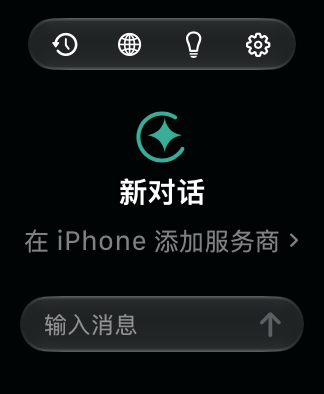
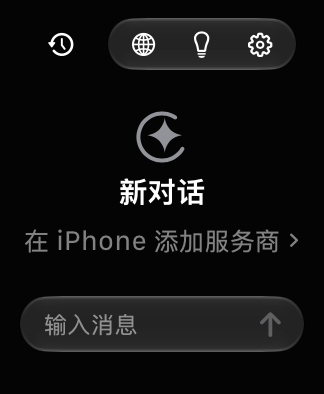
Give watch history its own leading button

diff --git a/Watch/ArcWatchApp.swift b/Watch/ArcWatchApp.swift
@@ -64,15 +64,19 @@ struct WatchChatView: View {
     }
 
     private var actionBar: some View {
-        HStack(spacing: 0) {
+        HStack(spacing: 6) {
             barButton("历史对话", symbol: "clock.arrow.circlepath") { panel = .history }
-            barButton("联网搜索", symbol: "globe", selected: store.searchEnabled) { store.searchEnabled.toggle() }
-            barButton("思考", symbol: "lightbulb", selected: store.thinkingEnabled) { store.thinkingEnabled.toggle() }
-            barButton("设置", symbol: "gearshape") { panel = .settings }
-        }
-        .padding(.horizontal, 3)
-        .background {
-            Color.clear.frame(height: 26).watchBarSurface()
+                .frame(width: 34)
+
+            HStack(spacing: 0) {
+                barButton("联网搜索", symbol: "globe", selected: store.searchEnabled) { store.searchEnabled.toggle() }
+                barButton("思考", symbol: "lightbulb", selected: store.thinkingEnabled) { store.thinkingEnabled.toggle() }
+                barButton("设置", symbol: "gearshape") { panel = .settings }
+            }
+            .padding(.horizontal, 3)
+            .background {
+                Color.clear.frame(height: 26).watchBarSurface()
+            }
         }
     }
 

diff --git a/README.md b/README.md
@@ -16,7 +16,7 @@
 
 ## 在手表上聊天
 
-- 聊天页顶部是一条紧凑的横向工具栏，从左到右是历史、联网搜索、思考和设置。在 watchOS 26 及以上使用系统 Liquid Glass。
+- 聊天页左上角是独立的历史按钮，右侧胶囊从左到右是联网搜索、思考和设置。在 watchOS 26 及以上使用系统 Liquid Glass。
 - 聊天页隐藏时间，为正文腾出空间。点历史可以新建或删除对话。每次冷启动进入空白新对话，发送第一条消息后才计入历史。
 - 底部是一条 28 点高的输入栏。点左侧调用手表系统输入面板，可使用设备和语言支持的听写、手写或键盘。点右侧箭头发送，等待回复时可停止。
 - 用户消息显示为右对齐气泡，AI 回复直接排在正文里。Markdown 支持标题、列表、引用、代码块、表格和链接，可在设置中切换为原文。
